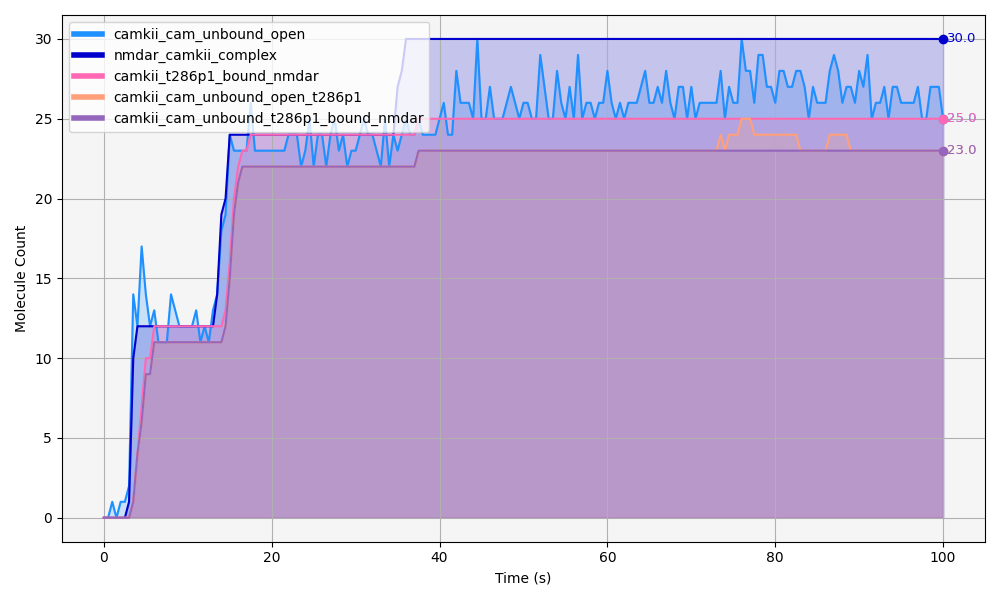
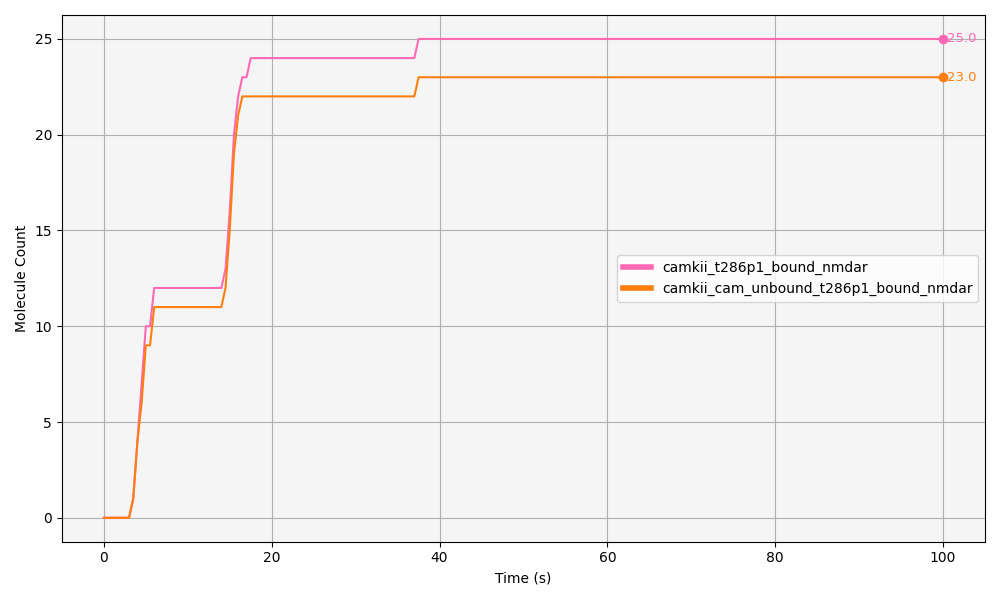
cam section may delete

diff --git a/40-results.md b/40-results.md
@@ -27,31 +27,35 @@ In contrast, the population of open CaMKII subunits that are not bound to CaM re
 
 In the model at hand, CaMKII is defined as dynamically transitioning between open and closed conformations, and unless stabilised in the open state—either through CaM binding, T286 phosphorylation, or NMDAR association —it will revert to the closed state (see @fig-tbl-1). So we can see in @fig-cam-camkii-binding that the majority of CaMKII open is stabilised by CaM, however, there is another mechanism that is keeping CaMKII open. This other mechanism is in direct relation with NMDAR interaction as we will explore next. 
 
-![Description NEEDED. _For reproducibility, this figure was obtained from plotting data from "run_2025-04-03_08-45-21_seed_2."_](40-results-figures\WT\cam-camkii-binding.png){#fig-cam-camkii-binding fig-pos='H' fig-scap="Ratio of CaMKII bound to CaM"}
-
 By examining @fig-camkii-opening-nmdar, we observe that the levels of CaMKII binding to NMDARs (dark blue line: nmdar_camkii_complex) closely follow the same pattern as CaM unbinding from CaMKII (medium blue: camkii_cam_unbound_open). In other words, as CaMKII associates with NMDARs, this interaction appears to maintain CaMKII in an open state, during which CaM dissociates from the complex. Interestingly, the proportion of CaMKII free from CaM, that are still in their open conformation (medium blue: camkii_cam_unbound_open) fluctuates up and down frequently, indicating that calmodulin is continuously binding to and dissociating from CaMKII; whereas the CaMKII/NMDAR complex stabilises as all NMDARs are saturated (there are 30 NMDARs released and by the end they are all bound to CaMKII). After approximately 30 seconds, the levels of camkii_cam_unbound_open stabilise and remain lower than the total amount of CaMKII bound to the NMDAR complex. In summary, this observation indicates that CaM is binding and unbinding from CaMKII holoenzymes that have formed a complex with NMDARs, and that binding of CaMKII to the NMDAR stabilises the subunits in their open conformation. 
 
-![Description NEEDED. _For reproducibility, this figure was obtained from plotting data from "run_2025-04-03_08-45-21_seed_2."_](40-results-figures\WT\camkii-open-nmdar.png){#fig-camkii-opening-nmdar fig-pos='H' fig-scap="CaMKII opening and NMDARs"}
+::: {#fig-camkii-open layout-ncol=1 fig-pos='H' fig-scap="Stabilisation of CaMKII in the Open Conformation" width="70%"}
 
-Further analysis focuses on levels of T286 phosphorylation, as shown in @fig-camkii-t286p-nmdar. The total number of CaMKII subunits phosphorylated at T286 is represented by the red trace (camkii_t286p). This trace reflects the full population of T286-phosphorylated CaMKII, irrespective of any other concurrent molecular states.
+![](40-results-figures\WT\cam-camkii-binding.png){#fig-cam-camkii-binding}
 
-All CaMKII subunits categorised as camkii_t286p are necessarily in the open conformation. Therefore, camkii_t286p represents a subset of the camkii_open population. This is consistent with both the model's coding and biological evidence, as phosphorylation at T286 locks CaMKII in an autonomously active, open conformation by preventing the regulatory segment from re-binding to the catalytic domain, which physically prevents closing of the subunit.
+![](40-results-figures\WT\camkii-open-nmdar.png){#fig-camkii-opening-nmdar}
 
-Out of the 104 CaMKII subunits that are open at the end of the simulation, 45 are found to be phosphorylated at T286 [@fig-camkii-t286p-nmdar-b]. This indicates that approximately half of the open CaMKII subunits are in the T286-phosphorylated state. Of these 45 T286-phosphorylated CaMKII subunits, a subset of 25 are found to be bound to NMDARs (camkii_t286p1_bound_nmdar), as shown in @fig-camkii-t286p-nmdar-b. The difference between the T286-phosphorylated CaMKII subunits (45) and the 25 bound and phosphorylated, corresponds to the number of CaMKII molecules that are T286-phosphorylated but not associated with NMDARs. This is, out of all the CaMKII subunits that are phosphorylated at T286, half can be found bound to NMDARs.
-
-Within the population of T286-phosphorylated CaMKII bound to NMDARs, only a very small number of subunits remain bound to CaM [@fig-camkii-t286p-nmdar-b]. Thus, the majority of CaMKII subunits that are bound in a NMDAR/CaMKII complex are both phosphorylated at T286 and free from CaM. (this is consistent with literature for discussion-REFERENCE). This is, once CaMKII is bound to the NMDARs, the holoenzyme subunits can remain open, and autophosphorylate even in the absence of CaM. 
-
-::: {#fig-camkii-t286p-nmdar layout-ncol=1 fig-pos='H' fig-scap="CaMKII T286 phosphorylation and NMDARs" width="80%"}
-
-![](40-results-figures/WT/camkii-phospho-nmdar.png){#fig-fig-camkii-t286p-nmdar-a}
-
-![](40-results-figures/WT/camkii-t286p.png){#fig-camkii-t286p-nmdar-b}
-
-CaMKII T286 phosphorylation and binding to NMDARs. Description NEEDED. _For reproducibility, this figure was obtained from plotting data from "run_2025-04-03_08-45-21_seed_2."_
+Stabilisation of CaMKII in the Open Conformation. _For reproducibility, this figure was obtained from plotting data from "run_2025-04-03_08-45-21_seed_2."_
 
 :::
 
-Among all CaMKII subunits phosphorylated at T286, approximately half (23 molecules) are also bound to CaM, represented by the trace _"camkii_cam_ca4_t286p1"_, while the remaining half (22 molecules) are unbound from CaM [@fig-subsets-of-camkii-t286p-cam-binding].This indicates that CaM binding facilitates T286 phosphorylation to some extent and vice versa. However, not all phosphorylation appears to result from CaM binding; in fact, subunits that are both CaM-bound and T286-phosphorylated emerge more slowly during the simulation.
+### T286 Phosphorylation
+Next we look at total number of CaMKII subunits phosphorylated at T286. CaMKII_T286P reflects the full amount of T286-phosphorylated CaMKII, irrespective of any other concurrent molecular states. All CaMKII subunits categorised as camkii_t286p are necessarily in the open conformation. Therefore, camkii_t286p represents a subset of the camkii_open population [@fig-subsets-of-open-t286p1_p0]. This is consistent with both the model's coding and biological evidence, as phosphorylation at T286 locks CaMKII in an autonomously active, open conformation by preventing the regulatory segment from re-binding to the catalytic domain, which physically prevents closing of the subunit.
+
+Out of the 104 CaMKII subunits that are open at the end of the simulation, 45 are found to be phosphorylated at T286 [@fig-subsets-of-open-t286p1_p0], and the rest (104 - 45 = 59) are therefore not phosphorylated at this site, which we will discuss further below. This indicates that approximately half of the open CaMKII subunits are in a T286-phosphorylated state. 
+
+Of the 45 T286-phosphorylated CaMKII subunits, a subset of 25 are found to be bound to NMDARs (pink line: camkii_t286p1_bound_nmdar as shown in @fig-camkii-t286p-nmdar-b). The difference between these two molecules, corresponds to the number of CaMKII molecules that are T286-phosphorylated but not associated with NMDARs. This is, out of all the CaMKII subunits that are phosphorylated at T286, about half can be found bound to NMDARs, and the other half is not.
+
+Further, within the population of T286-phosphorylated CaMKII that is also bound to NMDARs (pink line: camkii_t286p1_bound_nmdar), only a very small number of subunits remain bound to CaM [@fig-subsets_nmdar-t268p]. Thus, the majority of CaMKII subunits that are bound in a NMDAR/CaMKII complex are both phosphorylated at T286 and free from CaM. (this is consistent with literature for discussion-REFERENCE). This is, once CaMKII is bound to the NMDARs, the holoenzyme subunits can remain open, and autophosphorylate even in the absence of CaM. 
+
+![1](40-results-figures\WT\subsets-of-open-t286p1_p0.png){#fig-subsets-of-open-t286p1_p0 fig-pos='H' fig-scap="CaMKII open and T286 phosphorylated"}
+
+![2](40-results-figures\WT\camkii-t286p.png){#fig-camkii-t286p-nmdar-b fig-pos='H' fig-scap="CaMKII T286 phosphorylated and bound to CaM"}
+
+![alt text](40-results-figures\WT\subsets_nmdar-t268p.png){#fig-subsets_nmdar-t268p fig-pos='H' fig-scap="CaMKII T286 phosphorylated and bound to CaM"}
+
+### CaM facilitates T286 phosphorylation but is not necessary for it
+As explained in @sec-cam-binding-and-t286-p, we use a 'conformational selection' approach to modelling CaMKII activation, where CaMKII can exist in both open and closed states independently, and CaM selectively binds to and stabilizes the open conformation, without _inducing_ a conformational change. In order to understand how CaM is interacting with CaMKII T286 phosphorylation, we look at @fig-subsets-of-camkii-t286p-cam-binding. Here we can see that among all CaMKII subunits phosphorylated at T286, approximately half (23 molecules) are also bound to CaM, represented by the trace _"camkii_cam_ca4_t286p1"_, while the remaining half (22 molecules) are unbound from CaM.  This indicates that CaM binding facilitates T286 phosphorylation to some extent and/or vice versa, we can't know for sure which ones is causing the other? (HELP). However, not all phosphorylation appears to result from CaM binding; in fact, subunits that are both CaM-bound and T286-phosphorylated emerge more slowly during the simulation.
 
 In contrast, the other half of the T286-phosphorylated CaMKII population, which is free from CaM (light orange line in @fig-subsets_nmdar-t268p) corresponds in timing with the formation of the CaMKII/NMDAR complex [@fig-subsets_nmdar-t268p]. Moreover, the overlap between camkii_cam_unbound_open_t286p1 (light orange trace) and camkii_cam_unbound_t286p1_bound_nmdar shows that all of the CaMKII that is both free from CaM and T286 phosphorylated, is bound to NMDARs (but not all CaMKII that is bound to NMDARs is phosphorylated, nor bound CaM). 
 
@@ -63,14 +67,13 @@ Figure @fig-subsets_nmdar-t268p further demonstrates that the majority of CaMKII
 
 subset of camkii bound to ndmdar, of which x is p and x is not p
 
-![alt text](40-results-figures\WT\subsets_nmdar-t268p.png){#fig-subsets_nmdar-t268p}
+![alt text](40-results-figures\WT\xsubsets_nmdar-t268p.png){#fig-xsubsets_nmdar-t268p}
 
 ![alt text](40-results-figures\WT\subset-of-nmdar-p-not-pt286.png)
 
 ![alt text](40-results-figures\WT\camkii-nmdar-unphospho.png)
 
 
-### T286 Phosphorylation and Structural Implications
 
 ## T286 mutant model
 
